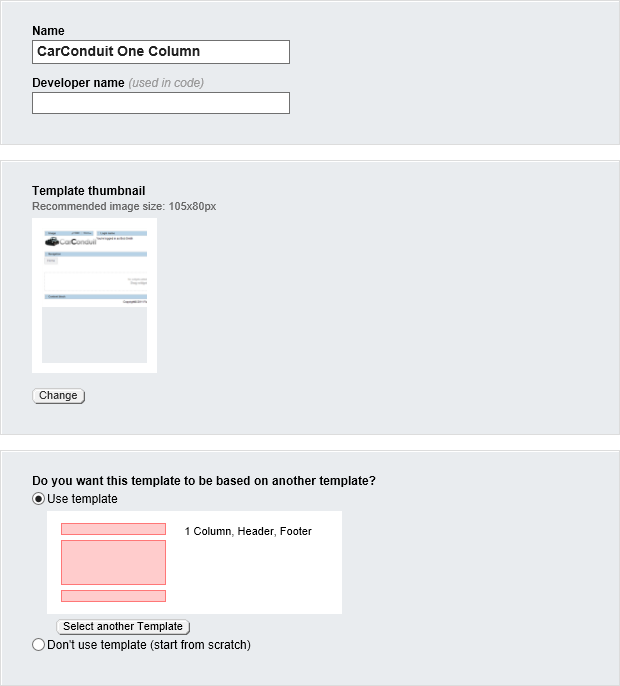
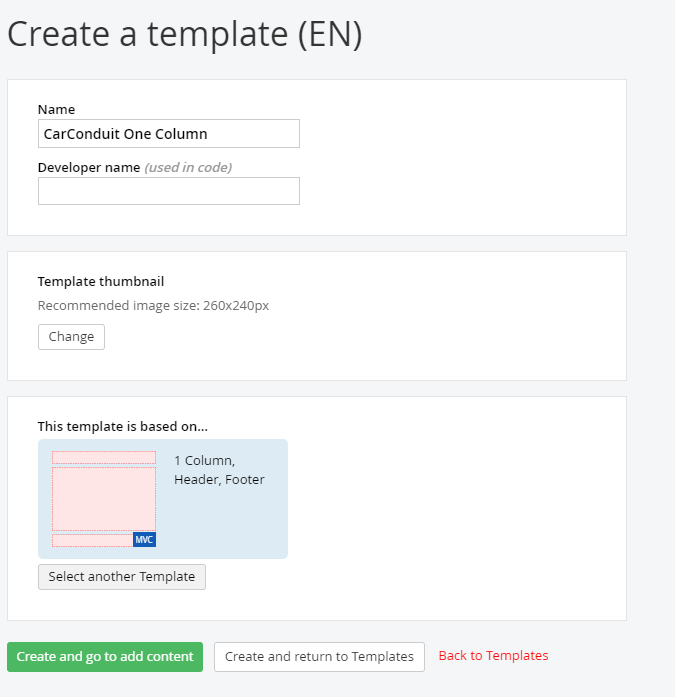
Update

diff --git a/Page Templates/readme.md b/Page Templates/readme.md
@@ -3,13 +3,13 @@ Page Templates
 
 Page templates allow you to have the same basic layout and content
 across multiple pages. For example, you may want certain pages to have
-the organization logo in the upper left hand corner and a copyright
+the organization logo in the upper left hand corner and a Logo
 notice centered at the bottom of the page. You can build all of your
 page templates entirely in Sitefinity, using drag and drop, without
 having to use any other tool.
 
 #### Note: 
-Page Templates can also be created from master pages and from
+Page Templates can also be created from master pages (Web Forms) and from
 MVC layout files
 
 Access page templates from the *Design \> Page Templates* menu option. 
@@ -37,16 +37,14 @@ pages that use the template and to preview those pages.
 This walk-through demonstrates creating a new page template and
 applying the new template to a page. The template will include an
 organization logo, language selector drop-down, navigation menu and
-footer with a copyright.
+footer with a Logo.
 
-1.  Click the *Create a template* button and enter information about the
-    template
+1.  Click the *Create a template* button and enter information about the template
 
-Enter the Name of the template. The name should describe how the
-template is used.
+Enter the Name of the template. The name should describe how the template is used.
 
 Optionally, you can specify a thumbnail image for the template. The
-recommended size is 105 x 80 pixels.
+recommended size is 260 x 240 pixels.
 
 2.  Select the Use template option. Click the *Select another Template*
     button to choose the 1 Column, Header, Footer template.
@@ -75,48 +73,38 @@ define proportions of areas within layout elements, and define
 ![](../media/image277.png)
 
 3.  From the *Drag layout elements* area of the right hand menu, drag
-    the 25% + 75% element onto the top row of the layout. This should
+    the Grid 3 + 9 element onto the top row of the layout. This should
     land right on top of the existing layout element.
 
 ![](../media/image278.jpeg)
 
 4.  Now the layout should look something like the screenshot below,
-    where the top row is divided into proportions of 25% and 75%.
+    where the top row is divided into proportions of 25% and 75% as a Bootstrap layout made out of 12 boxes of equal size.
 
 ![](../media/image280.jpeg)
 
-5.  Click the *Edit* button, click on *Classes & Labels* and enter
-    "Header" as the Wrapper name. Add "ccLogin" to Column 2. In the
-    *Labels* area, enter "Logo" for Column 1 and "Login" for Column 2.
+5.  Click the *Edit* button, click on *Classes* and enter "ccLogin" to Column 2 (this will be the name of the CSS class you want to apply to the Login placeholder). In the
+    *Labels* tab, enter "Logo" for Column 1 and "Login" for Column 2. Click the *Save* button to finish editing the layout element.
 
-Wrapper is used later to select the entire row in CSS. Column 2 is the
-CSS name for the second column that will contain a login name widget.
-Click the *Done* button to finish editing the layout element.
+![](../media/image281.png) ![](../media/image281B.png)
 
-![](../media/image281.png)
-
-6.  Drag the 100% layout element to a point just between the top and
+6.  Drag the Grid-12 layout element to a point just between the top and
     second rows. This will create a new row in the Header area of the
     layout.
 
 ![](../media/image282.png)
 
-7.  Click the *Edit* button, click on *Classes & Labels* and enter
-    "Menu" as the Wrapper name and "Menu" as the Column 1 label. Click
-    the *Done* button.
+7.  Click the *Edit* button, click on *Labels* and enter "Menu" as the Column 1 label. Click the *Save* button.
 
 ![](../media/image284.png)
 
-8.  Drag a 100% layout element to the Content area below the menu.
+8.  Drag a Grid-12 layout element to the Content area below the menu.
 
-9.  Click the *Edit* button, click on *Classes & Labels* and enter
-    "Main" as the Wrapper name and "Main" as the Column 1 label. Click
-    the *Done* button.
+9.  Click the *Edit* button, click on *Labels* and enter "Main" as the Column 1 label. Click the *Save* button.
 
-10. Drag a 100% layout element to the Footer area below the content.
+10. Drag a Grid-12 layout element to the Footer area below the content.
 
-11. Click the *Edit* button, click on *Classes & Label*s and enter
-    "Footer" as the Wrapper name.
+11. Click the *Edit* button, click on *Labels* and enter "Footer" as the Column 1 label.
 
 The layout should look like the screenshot below. Notice that the
 layout elements have the custom labels that you defined.
@@ -146,14 +134,12 @@ content that will appear on any page that uses this page template.
 
 ![](../media/image291.png)
 
-5.  Open the Login section of the right-hand menu and drag the *Login
-    name* widget to the Login layout area.
+5.  Open the Login section of the right-hand menu and drag the *Login/Logout button* widget to the Login layout area.
 
 ![](../media/image292.png)
 
 6.  Click the *Edit* link of the Login name widget. Scroll down to the
-    FormatString property and change it to *You\'re logged in as
-    {FirstName} {LastName}*. Click the *Save* button.
+    Template property and change it to *Login name*. Click the *Save* button.
 
 The page now displays something like the screenshot below.
 
@@ -167,8 +153,9 @@ the Styling section for directions on how to use CSS styling.
     widget to the Menu layout element below the image and login.
 
 8.  Click the *Edit* button of the Navigation widget. From the template
-    drop down, select the *Horizontal with dropdown menus* option. Click
-    the *Save* button to close the dialog.
+    drop down, select the *Horizontal* option. Click the *Save* button to close the dialog.
+
+![](../media/image295.jpeg)
 
 #### Note: 
 What if you don\'t want to display the home page in the
@@ -180,28 +167,24 @@ include.
 9.  Drag a *Content* block widget to the Footer layout area, at the
     bottom of the page.
 
-10. Click the *Edit* link. Add a copyright notice for your organization,
-    for example *Copyright 2016 Falafel Software*. Click the *More
-    formatting* options button. Place your text cursor just after the
-    word Copyright, drop down the list of symbols and select the
-    copyright symbol as shown below.
+10. Click the *Edit* link. Add a Logo notice for your organization,
+    for example *Logo 2019 CarConduit.com*. Click the *More
+    formatting* options button. 
 
-![](../media/image296.png)
-
-Select the text in the editor window, then click the Align Center button.
+11. Select the text in the editor window, then click the Align Center button.
 
 ![](../media/image297.png)
 
-Click the *Save* button. The page should now look like the screenshot below:
+12. Click the *Save* button. The page should now look like the screenshot below:
 
 ![](../media/image298.jpeg)
 
-11. Click the *Publish* button.
+13. Click the *Publish* button.
 
 #### Note: 
 Widgets in a page template can be marked as editable so that
 they can be tweaked later when they're on the page. For example, if
-you drop an Image widget on the page template, drop down the *More*
+you edit the Logo content widget on the page template, drop down the *More*
 menu and select the *Make editable on pages* option.
 
 ![](../media/image300.png)
@@ -211,62 +194,37 @@ The widget title bar will display "EDITABLE ON PAGES" to flag the change.
 ![](../media/image302.jpeg)
 
 Now you have access to the Edit link even when the widget is used on
-the page. You can change the image choice and the other settings for
-the widget. Be aware that the inheritance to the original widget will
-be broken so that changes to the original will not carry to the page
-where you edited the widget.
+the page. You can change the content and the other settings for
+the widget. **Be aware that the inheritance to the original widget will be broken so that changes to the original will not carry to the page where you edited the widget.**
 
-#### Using the New Page Template
+Using the New Page Template
+-----------------------------
 
 Now that the page template is created and the layout designed, you can
 create a new page using the template.
 
 1.  Select the *Pages* menu option.
 
-2.  Create a new page. In the Template area, select *Use template*, then
-    click the *Select another Template* button.
+2.  Create a new page. Choose the new template we just created for this page
 
 #### Note: 
-Be aware that changing the template after creating the page
-will \"pull the rug from underneath\" any current page design you
-already have in place.
+You can return to an earlier version of any page, before a template was changed by selecting the *Revision History* item from the Actions menu.
 
-Changing the template will typically break the layout and you will be
-starting over for that page.
-
-3.  Select the new custom template. Notice the warning that the template
-    change may break the existing layout for the page. If this template
-    will be used for most of your pages going forward, enable the *Use
-    the selected template* as a default template\... option.
-
-![](../media/image304.png)
-
-4.  Click the *Done* button to close the dialog.
-
-#### Note: 
-You can return to an earlier version of the page, before the
-template was changed by selecting the *Revision History* item from the
-Actions menu.
-
-hen you edit the page content, the page appears with the template
+When you edit the page content, the page appears with the template
 layout and items already showing. Notice that the login name,
-navigation menu and copyright notice all come from the template and
-cannot be changed here. The logo in the upper left corner has
-*Editable in pages* enabled, so the *Edit* link is visible for that
+navigation menu and Logo all come from the template and
+cannot be changed here. The Copyright at the bottom can be edited because we had *Editable in pages* enabled, so the *Edit* link is visible for that
 template element only. You can add new items around the template
 items, but you can\'t delete or sub-divide the layout elements.
 
 ![](../media/image306.jpeg)
 
-#### Duplicating Page Templates
+Duplicating Page Templates
+-------------------------
 
 ![](../media/image308.jpeg)
-To cut down on repeated work, you can
-duplicate existing page templates. Any changes to the original page
-template are inherited by the duplicate. You can setup hierarchies of
-templates so that page elements are defined one time only. For
-example, you could define a base page with an organization logo. By
-duplicating the page, you get the organization logo for free.
+
+To cut down on repeated work, you can duplicate existing page templates. Any changes to the original page template are inherited by the duplicate. You can setup hierarchies of templates so that page elements are defined one time only. For example, you could define a base page with an organization logo. By duplicating the page, you get the organization logo for free.
 
 To create a duplicate, start from *Design \> Page Templates*, then
 click the Actions menu *Duplicate* option. Give the template a new
@@ -279,16 +237,16 @@ needed. Think about the scenarios that might arise and try to design
 your template hierarchy to allow flexibility and maintenance with the
 least amount of upkeep.
 
-#### Styling
+Styling
+--------
 
 Custom changes to fonts, alignment, background and other appearance
 changes needs to be applied using styles. Styles can be added:
 
 -   Using the CSS (Cascading Style Sheet) widget. Styles can be added to
-    the widget directly as text or you can link to a CSS file.
+    the widget directly as text or you can link to a CSS file. (Please use CSS files and not inline CSS, PLEASE! :)
 
--   Using themes. Themes define a set of colors, fonts and CSS for the
-    site.
+-   Using themes. Themes define a set of colors, fonts and CSS for the site.
 
 You can use the CSS widget for quick, ad-hoc styling. You can have as
 many CSS widgets on the page as you like. The styles defined in the
@@ -302,8 +260,7 @@ block widget.
 1.  Select the *Design \> Page Templates* menu option.
 
 2.  Open the CarConduit One Column template created in the previous
-    [[Page]{.underline} [
-    Templates]{.underline}](#Creating_a_New_Template) section.
+    Page Templates section.
 
 3.  Drag a *CSS* widget to the page.
 
@@ -328,10 +285,9 @@ The *Write CSS* option allows you to add styles directly to the page.
 Styles can be added to the editor window, but be sure to leave out the
 \<style\> tag.
 
-5.  Select the *Write CSS* option and enter the style below to the
-    window:
+5.  Select the *Write CSS* option and enter the style below to the window:
 
-.Login
+.ccLogin
 {
   text-align:right;
 }
@@ -340,20 +296,19 @@ Styles can be added to the editor window, but be sure to leave out the
 
 ![](../media/image310.jpeg)
 
-7.  Click the *Preview* button. The top row, right column text should
-    align to the right side.
+7.  Click the *Preview* button. The top row, right column text should align to the right side.
 
 ![](../media/image311.jpeg)
 
 8.  Navigate back to editing the page and click the *Publish* button.
 
-#### Create Templates from Master Pages
+Create Templates from Master Pages (Legacy Web Forms Technique)
+---------------------------------------------------------------
 
 Master pages are a file-based standard that ASP.NET uses for
 templating. Master pages also have C\# or VB.NET code-behind unlike
 the Sitefinity template counterpart. Another advantage to master pages
-is that you can reuse whatever frameworks the page is using, such as
-[Bootstrap,](http://getbootstrap.com/) without having to reconfigure
+is that you can reuse whatever frameworks the page is using without having to reconfigure
 the page.
 
 Here's a minimal example masterpage with content place holders for the
